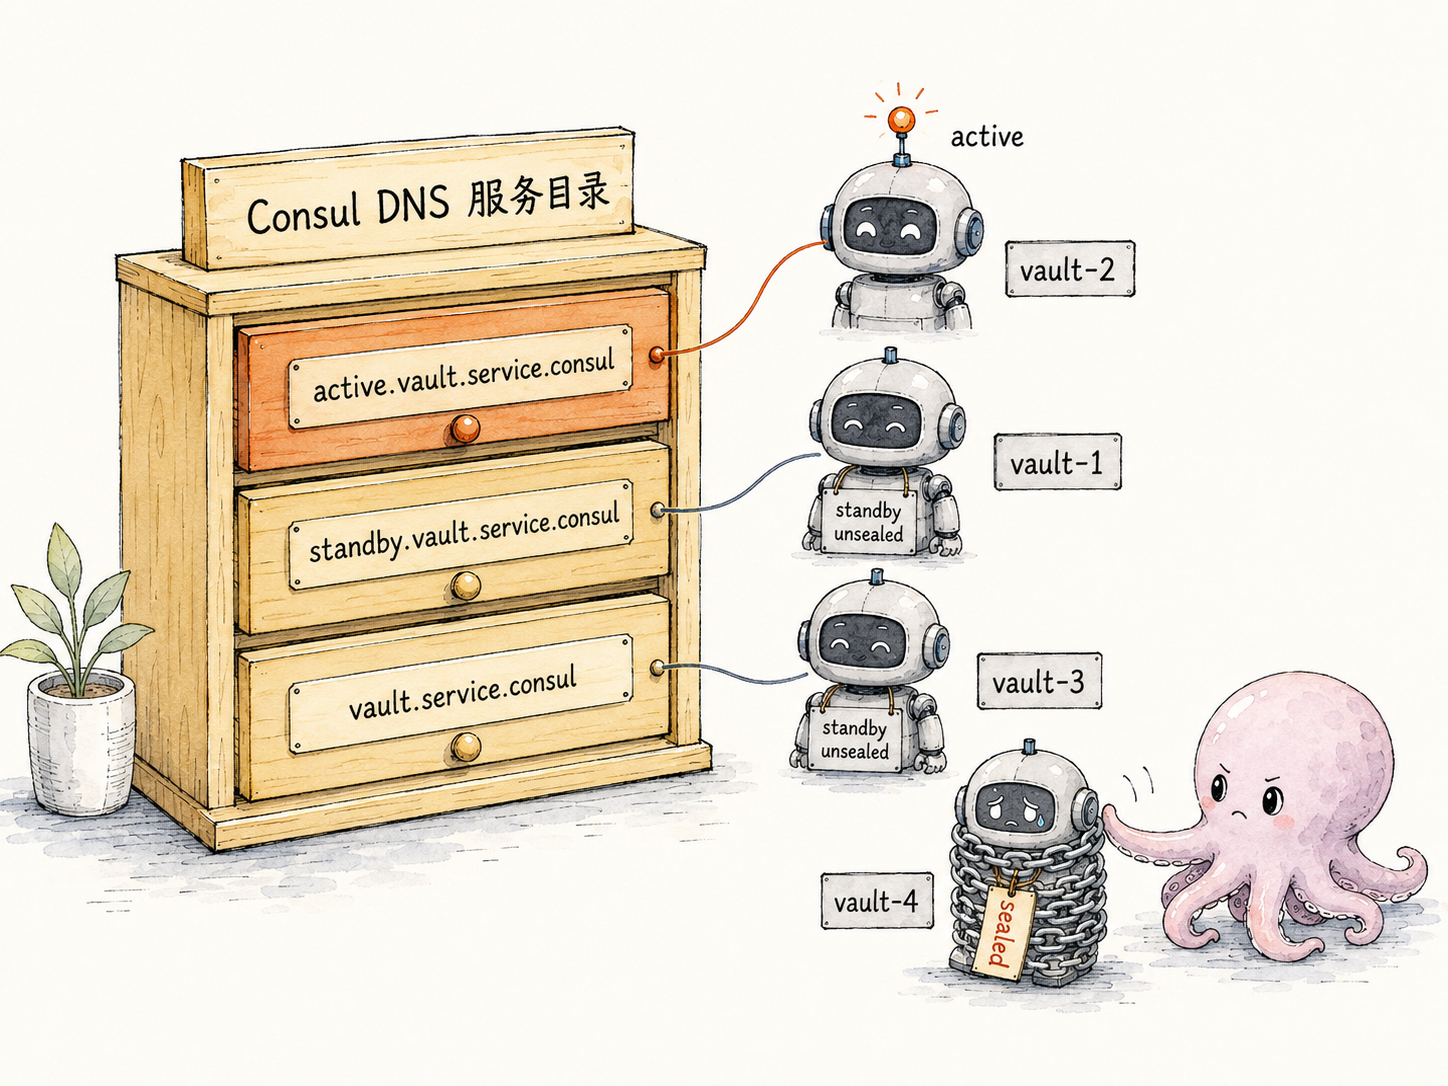
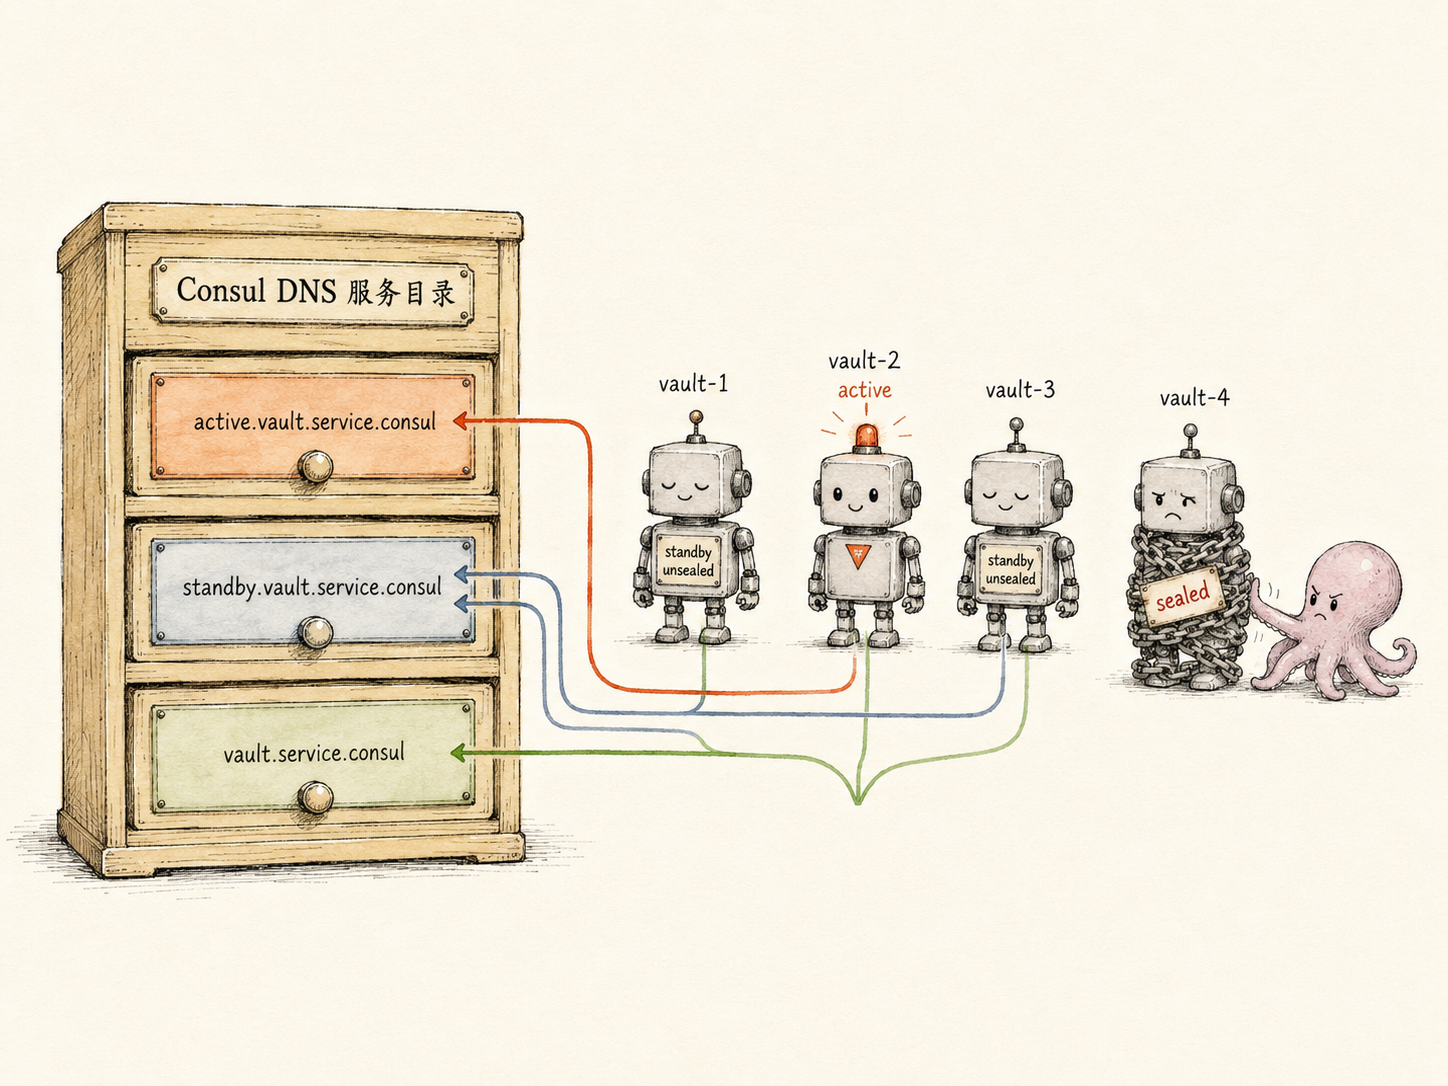
ch6-service-registration: change k8s label image metaphor to claw machine

diff --git a/docs/ch6-service-registration.md b/docs/ch6-service-registration.md
@@ -56,7 +56,6 @@ service_registration "consul" {
 处于 sealed 状态的 Vault 节点会主动在健康检查中将自身标记为不健康，因此**不会**被 Consul 的服务发现层返回。
 
 ![Consul 服务注册后形成的三个 DNS 端点：active 只解析到当前活跃节点，standby 只解析到已 unseal 的待命节点，vault 解析到全部已 unseal 节点；sealed 节点全部被 Consul 主动剔除](/images/ch6-service-registration/consul-three-endpoints.png)
-> 配图提示词（手绘风、真实事物比喻，钢笔线绘，水彩淡色阴影风格）：画一个三层木质抽屉柜（标 "Consul DNS 服务目录"），三层抽屉从上到下分别贴标签 "active.vault.service.consul"、"standby.vault.service.consul"、"vault.service.consul"。柜子右侧站着四只小机器人（vault-1 / vault-2 / vault-3 / vault-4），其中 vault-2 头顶亮起一盏小灯标 "active"，vault-1 与 vault-3 胸前挂 "standby unsealed" 牌、神情平和，vault-4 全身被铁链缠住、贴着写有 "sealed" 的封条、表情委屈。引线规则严格按照三个 DNS 端点的语义：从 vault-2 引一条线只落入第一层（active）抽屉；从 vault-1 与 vault-3 各引一条线只落入第二层（standby）抽屉；同时再从 vault-1、vault-2、vault-3 三只机器人**各**引出一条线，共三条线一起汇入第三层（vault）抽屉，体现"全部已 unseal 节点"的全集语义。sealed 的 vault-4 没有任何线指向任何抽屉，旁边一只小章鱼伸出爪子把它温柔地推到柜子外面。可用不同颜色区分三组连线（active 朱橙、standby 灰蓝、全集 草绿）以避免视觉混乱。钢笔勾线，水彩淡色阴影——木柜浅木黄、机器人冷灰、活跃节点的灯与 active 抽屉用饱和度稍高的水彩朱橙、sealed 封条用水彩朱红、章鱼淡粉紫，整体留白舒朗。
 
 ### 2.3 关键参数：服务命名、健康检查、ACL token 与 TLS
 
@@ -193,7 +192,7 @@ metadata:
 - `vault-version`（字符串，例如 `"1.21.2"`）：Vault 的版本号，**在该 Pod 的生命周期内不会变化**。
 
 ![Kubernetes 服务注册写到 Pod 上的标签：把活跃 / 待命 / 封印 / 版本号等运行时状态打成 label，让 Service 选择器能够直接挑出"当前活跃且已解封的那一台"](/images/ch6-service-registration/k8s-pod-labels.png)
-> 配图提示词（手绘风、真实事物比喻，钢笔线绘，水彩淡色阴影风格）：画三只机器人（vault-0 / vault-1 / vault-2）整齐排成一队，每只机器人胸前都贴着五张便利贴：vault-active、vault-initialized、vault-perf-standby、vault-sealed、vault-version。vault-0 的 vault-active 写 "true"、神情振奋；其它两只机器人对应便利贴写 "false"、表情淡定。一台老式分拣机（标 "Kubernetes Service selector：vault-active=true"）伸出一只机械臂只把 vault-0 轻轻拉到出口管道里，其余两只被留在原位。钢笔勾线，水彩淡色阴影——机器人冷灰、便利贴米黄、"active=true" 便利贴用水彩薄荷绿高亮、"sealed=true" 便利贴用水彩朱红高亮（若出现）、其余便利贴保持淡米色，分拣机机身淡褐木色、出口管道浅蓝晕染。
+> 配图提示词（手绘风、真实事物比喻，钢笔线绘，水彩淡色阴影风格）：画一台经典的**抓娃娃机**（机身正面贴一张大标签 "Kubernetes Service selector：vault-active=true"），玻璃柜厢内并排坐着三只小机器人玩偶（vault-0 / vault-1 / vault-2），每只机器人胸前都贴着五张便利贴：vault-active、vault-initialized、vault-perf-standby、vault-sealed、vault-version。vault-0 的 vault-active 写 "true"、神情振奋、头顶亮起一盏小灯；vault-1 与 vault-2 对应便利贴写 "false"、表情淡定。机器顶部的金属爪子精准地夹住 vault-0 头顶（**只**抓走它），正沿着机箱内的轨道把它送向右下角的出口槽（标 "Service Endpoints"）；vault-1 与 vault-2 留在原位，爪子完全没有触碰它们。机箱旁可加一枚已投入的小硬币与一只小章鱼旁观者。钢笔勾线，水彩淡色阴影——机身淡蜜桃粉与浅薄荷绿撞色、玻璃用极淡的天蓝晕染、机器人冷灰、便利贴米黄、"active=true" 便利贴用水彩薄荷绿高亮、"sealed=true" 便利贴用水彩朱红高亮（若出现）、其余便利贴保持淡米色，整体留白舒朗。
 
 ### 3.4 据标签构建"始终指向活跃节点"的 Service
 
